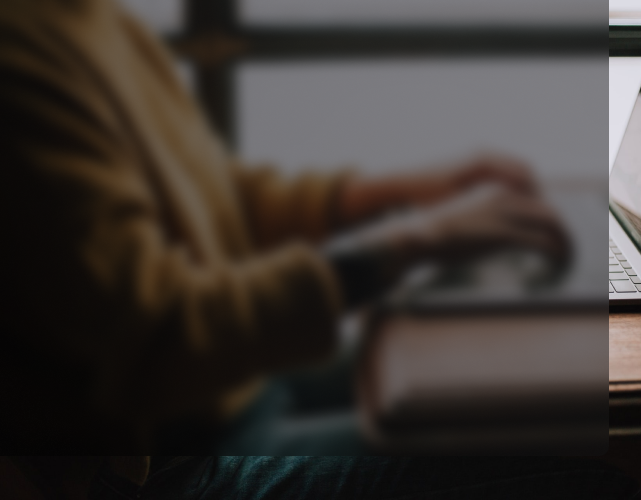
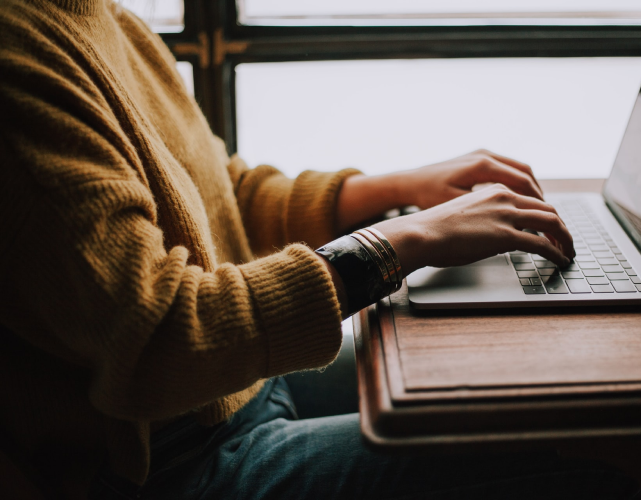
About Us Section is completed.

diff --git a/css/about-us.css b/css/about-us.css
@@ -180,3 +180,280 @@
     background-size: 264px 486px;
   }
 }
+
+/* About Us Section */
+/* Same margin for every block, so we have one class "about-us__item" for all of them
+and then, each variant (background and backgorund white) gets a variant class
+(--background and --background-white), so then we can target them, and then each
+text block only gets the variant class, since the text in the background block is
+different from the text in the background white block */
+/* About Us First Topic */
+.about-us {
+  text-align: center;
+  overflow: hidden;
+}
+
+.about-us__container {
+  padding-top: 49px;
+}
+
+.about-us__title {
+  margin-bottom: 75px;
+}
+
+.about-us__item {
+  margin-left: auto;
+  margin-right: auto;
+  margin-bottom: 13px;
+  overflow: hidden;
+}
+
+.about-us__item--background {
+  padding-top: 37px;
+  padding-bottom: 37px;
+  color: #fff;
+  justify-content: flex-end;
+  max-width: 500px;
+  padding-left: 31px; /* Makes the distancing from the 100% width */
+}
+
+.about-us__item--background__text {
+  max-width: 300px;
+}
+
+.about-us__item--background__title {
+  margin-bottom: 37px;
+  line-height: 1.5;
+}
+
+.about-us__item--background .subtitle {
+  margin-bottom: 12px;
+}
+
+.about-us__company-growth {
+  background-image: url(../images/about/company_meeting_small.png);
+  background-size: 500px 500px;
+  background-repeat: no-repeat;
+}
+
+.about-us__item__background-container {
+  background-image: linear-gradient(
+    to bottom left,
+    rgba(29, 29, 31, 0.5),
+    rgba(0, 0, 0, 0.5)
+  );
+  backdrop-filter: blur(5px);
+  padding: 32px 32px;
+  border-top-left-radius: 10px;
+  border-bottom-left-radius: 10px;
+  justify-content: center;
+  width: 100%;
+} /* The padding of the about-us__item--background is going to take care of the distance */
+
+.about-us__item--white {
+  background-color: #fff;
+}
+
+.about-us__item--white__container {
+  flex-direction: column;
+  align-items: center;
+}
+
+.about-us__item--white__text {
+  max-width: 300px;
+  margin-left: auto;
+  margin-right: auto;
+}
+
+.about-us__item--white__image__container {
+  margin-bottom: 10px;
+  margin-top: 16px;
+}
+
+.about-us__item--white--vision__image {
+  width: 474px;
+  height: 180px;
+  background-image: url(../images/about/cupcakes_vision_small.png);
+  background-size: 474px 180px;
+  background-repeat: no-repeat;
+}
+
+.about-us__item--white__title {
+  margin-top: 22px;
+  margin-bottom: 15px;
+}
+
+.about-us__item--white .subtitle {
+  margin-bottom: 14px;
+}
+
+@media screen and (max-width: 370px) {
+  .about-us__item--background__title {
+    line-height: initial; /* Sets the line height to initial, this way the 
+    .about-us__item__background-container doesn't overflow its parent */
+  }
+
+  .about-us__item__background-container {
+    /* Both this styles are here so the .about-us__item__background-container
+    doesn't overflow its parent. padding-top/bottom = 10% of the original padding */
+    padding-top: 8.6486486486486px;
+    padding-bottom: 8.6486486486486px;
+  }
+
+  .about-us__item--background {
+    /* Both this styles are here so the .about-us__item__background-container
+    doesn't overflow its parent. padding-top/bottom = 10% of the original padding */
+    padding-top: 10px;
+    padding-bottom: 10px;
+  }
+
+  .about-us__item--background__text {
+    max-width: 290px;
+  }
+}
+
+@media screen and (min-width: 500px) {
+  .about-us__item--background__text {
+    max-width: 471px;
+  }
+
+  .about-us__item--background .subtitle {
+    max-width: 275px;
+    margin-left: auto;
+    margin-right: auto;
+  }
+
+  .about-us__item--background__info {
+    max-width: 331px;
+    margin-left: auto;
+    margin-right: auto;
+  }
+
+  .about-us__item--white {
+    max-width: 500px;
+  }
+
+  .about-us__item--white__text {
+    max-width: 400px;
+  }
+}
+
+/* About Us Second Topic */
+.about-us__who-we-are {
+  background-image: url(../images/about/computer_working_small.png);
+  background-size: 500px 500px;
+  background-repeat: no-repeat;
+  justify-content: flex-start;
+  padding-left: initial;
+  padding-right: 31px; /* Pushing the background container to the right side */
+}
+
+.about-us__who-we-are .about-us__item__background-container {
+  border-top-left-radius: initial;
+  border-bottom-left-radius: initial;
+  border-top-right-radius: 10px;
+  border-bottom-right-radius: 10px;
+}
+
+.about-us__item--white--mission__image {
+  width: 186px;
+  height: 206px;
+  background-image: url(../images/about/cupcake_our_mission_large_small.png);
+  background-size: 186px 206px;
+  background-repeat: no-repeat;
+}
+
+.about-us__item--white--mission__image__container {
+  margin-bottom: initial;
+}
+
+/* About Us Desktop Version */
+@media screen and (min-width: 768px) {
+  .about-us__topics {
+    display: grid;
+    grid-template-columns: repeat(2, 1fr);
+    max-width: 1302px;
+    margin-left: auto;
+    margin-right: auto;
+    justify-content: center;
+    column-gap: 20px;
+    grid-template-areas: "first second";
+    padding-left: 20px;
+    padding-right: 20px;
+  }
+
+  .about-us__item {
+    margin-left: initial;
+    margin-right: initial;
+  }
+
+  .about-us__item--white {
+    max-width: 641px;
+    max-height: 500px;
+  }
+
+  .about-us__item--background {
+    padding-top: 0;
+    padding-right: 44px;
+    padding-bottom: 44px;
+    padding-left: 0;
+    max-width: 641px;
+  }
+
+  .about-us__company-growth {
+    padding-left: 44px;
+    padding-bottom: 44px;
+    padding-right: 0;
+  }
+
+  .about-us__company-growth {
+    background-image: url(../images/about/company_meeting_large.png);
+    background-size: 641px 500px;
+  }
+
+  .about-us__who-we-are {
+    background-image: url(../images/about/computer_working_large.png);
+    background-size: 641px 500px;
+    grid-area: second;
+  }
+
+  .about-us__item__background-container {
+    border-top-left-radius: initial;
+    align-items: center;
+  }
+
+  .about-us__item.about-us__who-we-are .about-us__item__background-container {
+    border-top-right-radius: initial;
+  }
+
+  .about-us__item--background__text {
+    max-width: 524px;
+  }
+
+  .about-us__item--background .subtitle {
+    max-width: 403px;
+    margin-bottom: 30px;
+  }
+
+  .about-us__item--background__info {
+    max-width: 429px;
+  }
+
+  .about-us__item--background__title {
+    margin-bottom: 30px;
+  }
+
+  .about-us__item--white__text {
+    max-width: 360px;
+  }
+}
+
+@media screen and (min-width: 1068px) {
+  .about-us__item--white__text {
+    max-width: 500px;
+  }
+
+  .about-us__item--white {
+    max-height: initial;
+  }
+}

diff --git a/sobre.html b/sobre.html
@@ -16,6 +16,109 @@
     <title>CakeIt! - Sobre</title>
   </head>
   <body>
+    <section class="about-us">
+      <div class="about-us__container">
+        <div class="about-us__title__container">
+          <h2 class="about-us__title">Sobre Nós</h2>
+        </div>
+        <div class="about-us__topics">
+          <div
+            class="
+              about-us__item about-us__item--background about-us__company-growth
+              flex
+            "
+          >
+            <div class="about-us__item__background-container flex">
+              <div
+                class="
+                  about-us__item--background__text
+                  about-us__company-growth__text
+                "
+              >
+                <h2 class="about-us__item--background__title">
+                  O crescimento da empresa
+                </h2>
+                <p class="subtitle">
+                  Começamos com pouco. Agora estamos por todo o país
+                </p>
+                <p class="about-us__item--background__info">
+                  No começo de 2017 tínhamos apenas duas lojas, agora estamos
+                  com mais de 540 lojas distribuídas por todo o país, demais não
+                  é?!
+                </p>
+              </div>
+            </div>
+          </div>
+          <div class="about-us__item about-us__item--white">
+            <div class="about-us__item--white__container flex">
+              <div class="about-us__item--white__text">
+                <h2 class="about-us__item--white__title">A nossa visão</h2>
+                <p class="subtitle">Oque queremos para a nossa empresa?</p>
+                <p class="about-us__item--white__info">
+                  Queremos que a nossa empresa continue com o seu crescimento,
+                  sempre com respeito aos seus funcionários e aos seus clientes.
+                  Uma empresa clássica, cheia de famílias que, ao pensarem em
+                  CupCakes, já pensam na CakeIt!
+                </p>
+              </div>
+              <div class="about-us__item--white__image__container">
+                <figure class="about-us__item--white--vision__image"></figure>
+              </div>
+            </div>
+          </div>
+        </div>
+        <div class="about-us__topics about-us__topics--second">
+          <div
+            class="
+              about-us__item about-us__item--background about-us__who-we-are
+              flex
+            "
+          >
+            <div class="about-us__item__background-container flex">
+              <div
+                class="
+                  about-us__item--background__text about-us__who-we-are__text
+                "
+              >
+                <h2 class="about-us__item--background__title">
+                  Quem somos nós?
+                </h2>
+                <p class="subtitle">Como começamos no comércio de CupCakes.</p>
+                <p class="about-us__item--background__info">
+                  Há quatro anos atrás, começamos com uma pequena loja, vendendo
+                  alguns sabores de cupcakes artesanais, feitos com muito amor e
+                  carinho. Até que chegamos onde estamos hoje, com um catálogo
+                  de CupCakes de mais de 75 sabores.
+                </p>
+              </div>
+            </div>
+          </div>
+          <div class="about-us__item about-us__item--white">
+            <div class="about-us__item--white__container flex">
+              <div class="about-us__item--white__text">
+                <h2 class="about-us__item--white__title">A nossa missão</h2>
+                <p class="subtitle">Uma das principais missões da CakeIt!</p>
+                <p class="about-us__item--white__info">
+                  Para nós, uma de nossas principais missões é sempre estarmos
+                  dispostos e capacitados para entregar CupCakes de qualidade
+                  para a casa de diversas pessoas, além de também sempre
+                  estarmos disponíveis para recebe-los em nossas lojas físicas,
+                  para nós, essa uma de nossas missões.
+                </p>
+              </div>
+              <div
+                class="
+                  about-us__item--white__image__container
+                  about-us__item--white--mission__image__container
+                "
+              >
+                <figure class="about-us__item--white--mission__image"></figure>
+              </div>
+            </div>
+          </div>
+        </div>
+      </div>
+    </section>
     <script src="js/zoom.js"></script>
     <script src="js/main.js"></script>
   </body>
